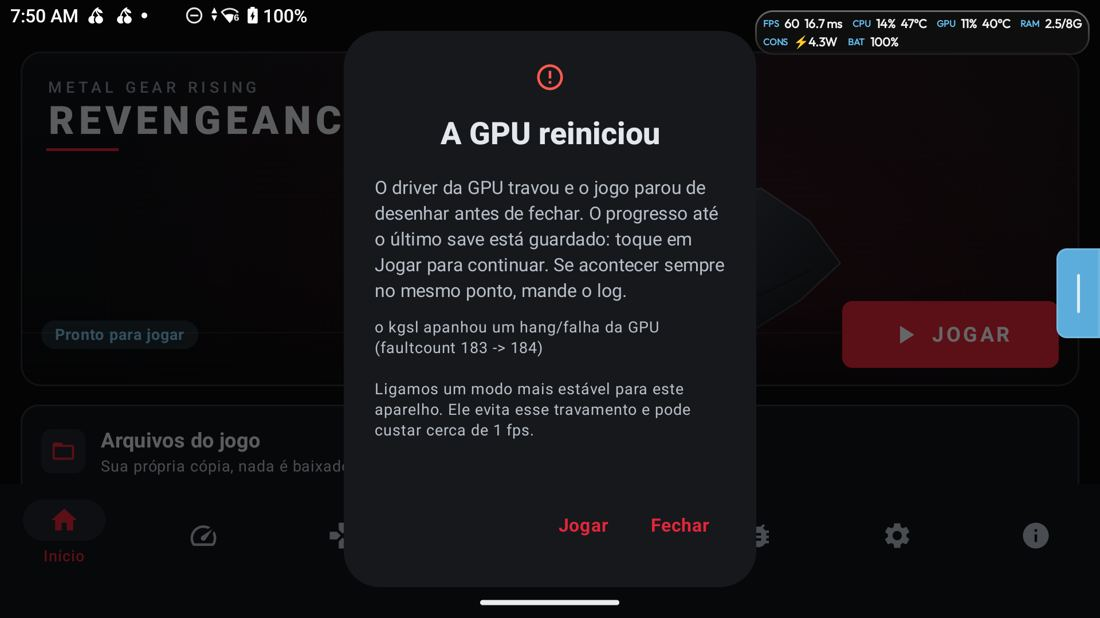
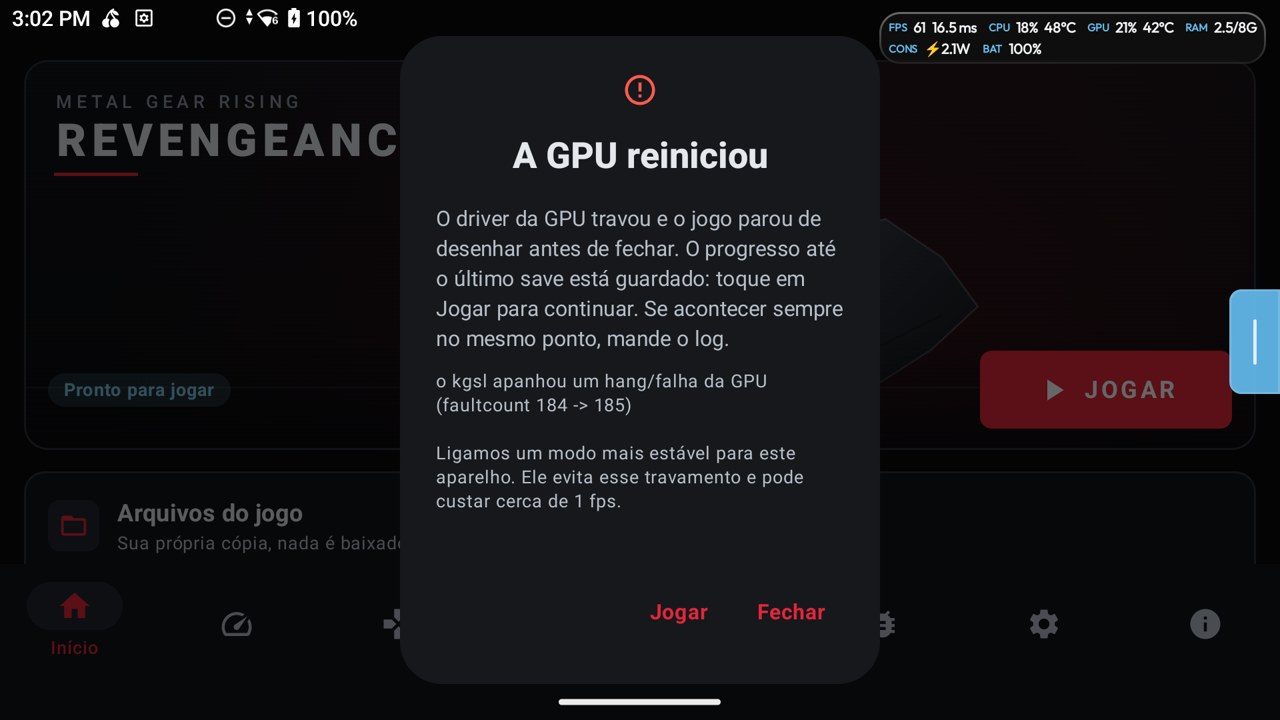
Add v1.2 test report, use real hang capture

diff --git a/docs/TESTES_2026-11-02.md b/docs/TESTES_2026-11-02.md
@@ -1,0 +1,36 @@
+# Testes da v1.2, 02/11/2026 (tarde)
+
+Aparelhos: Retroid Pocket 5 e RG Cube. APK final: 1.2.0 (3), SHA-256
[1 lines of base64/hex data omitted]
+
+| Item | Resultado |
+|---|---|
+| Regressão no APK de release | Passou inteira no RP5 e no Cube, 0 erros fatais |
+| Hang com clocks normais, modo estável desligado | 0 em 4 corridas de 5 min e 0 na regressão; a regressão anterior (07:39) teve 1 |
+| Hang no perfil SD480+ | 1 em 288 s sem o modo estável; 0 em 3 corridas de 5 min com ele |
+| Custo do modo estável com clocks normais | 57,4 → 56,9 fps; GPU 7,13 → 8,71 ms (mediana) |
+| Aviso "A GPU reiniciou" | Apareceu em 3 de 3 saídas (2 simuladas, 1 real); o sumiço das 07:39 não se repetiu |
+| Blade Mode: deslize com analógico preso | Funciona no Cube |
+| Ajuda da aba Controles | Descrevia o layout antigo; corrigida nas 3 línguas |
+| Imagens da v1.2 | Blade Mode e aviso de hang refeitos; opções de Controles adicionada |
+
+## Medição do modo estável (RP5, clocks normais, sem os 100 s iniciais)
+
+| Modo | Corridas | Amostras de 10 s | fps médio | Amostras abaixo de 58 fps | GPU, mediana |
+|---|---|---|---|---|---|
+| Normal | 4 | 128 | 57,42 | 46 (36%) | 7,13 ms |
+| Estável | 2 | 64 | 56,88 | 29 (45%) | 8,71 ms |
+
+## Pendências
+
+- O aviso ausente das 07:39 continua sem causa: só 1 caso, não repetido.
+- Com só 1 hang em 6 corridas com clocks normais e modo estável desligado (4 de 5 min e 2 regressões), a amostra não dá uma taxa confiável. Faltou comparar com a v1.1.
+- Texto do Combat Manual embaralhado em 1 captura no Cube ("Horizontao otlS"), durante um corte. Não investigado.
+- Blade Mode por deslize com analógico preso só foi injetado no Cube; o toque do RP5 não está calibrado. O código é o mesmo.
+- O botão "Baixar e instalar" do app só pode ser testado com a release publicada.
+- v1.0 → v1.2: instalou e o jogo abriu no Cube, mas o jogo da v1.0 não rodou antes.
+- v1.1 → v1.2 foi testado no build anterior; o APK final difere só no texto da ajuda (mesmo certificado e mesma versão) e foi instalado por cima desse build.
+
+## Estado dos aparelhos
+
+Saves do jogador iguais aos do início (MD5), `cvars.txt` vazio, perfil desligado, modo estável desligado, APK final instalado. O Hidden Leaf, aberto no Cube quando os testes começaram, não está mais rodando.
